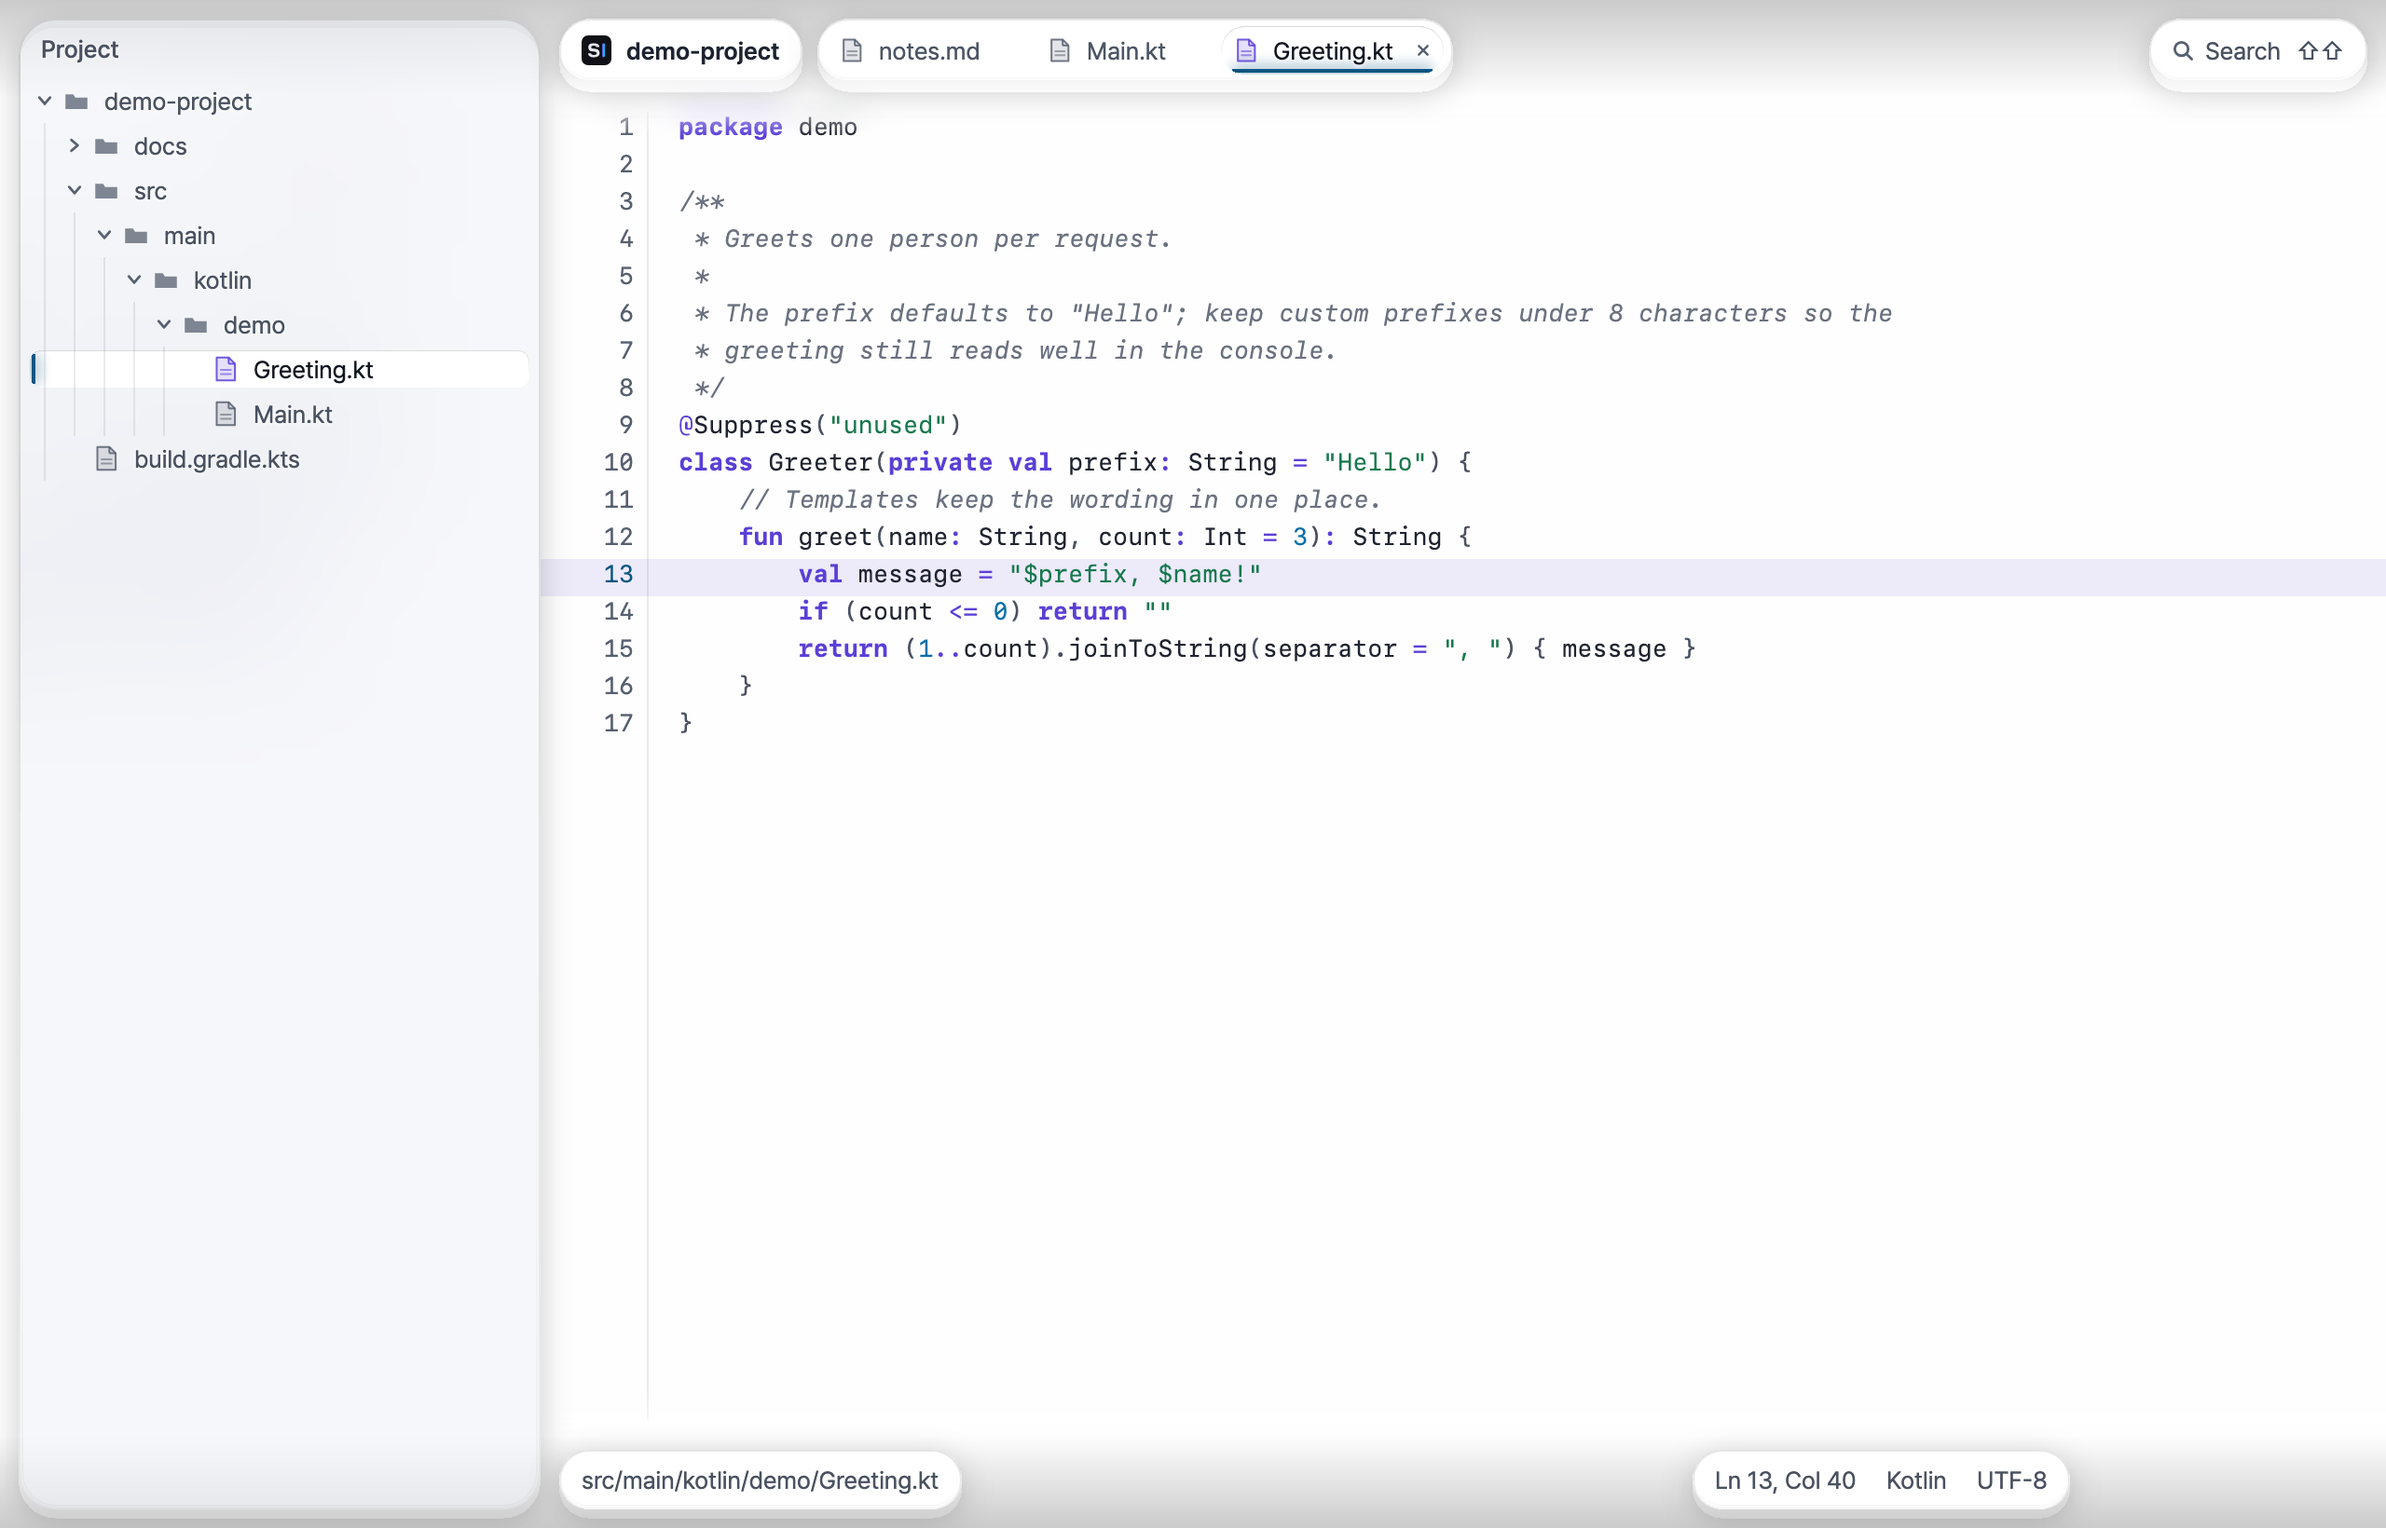
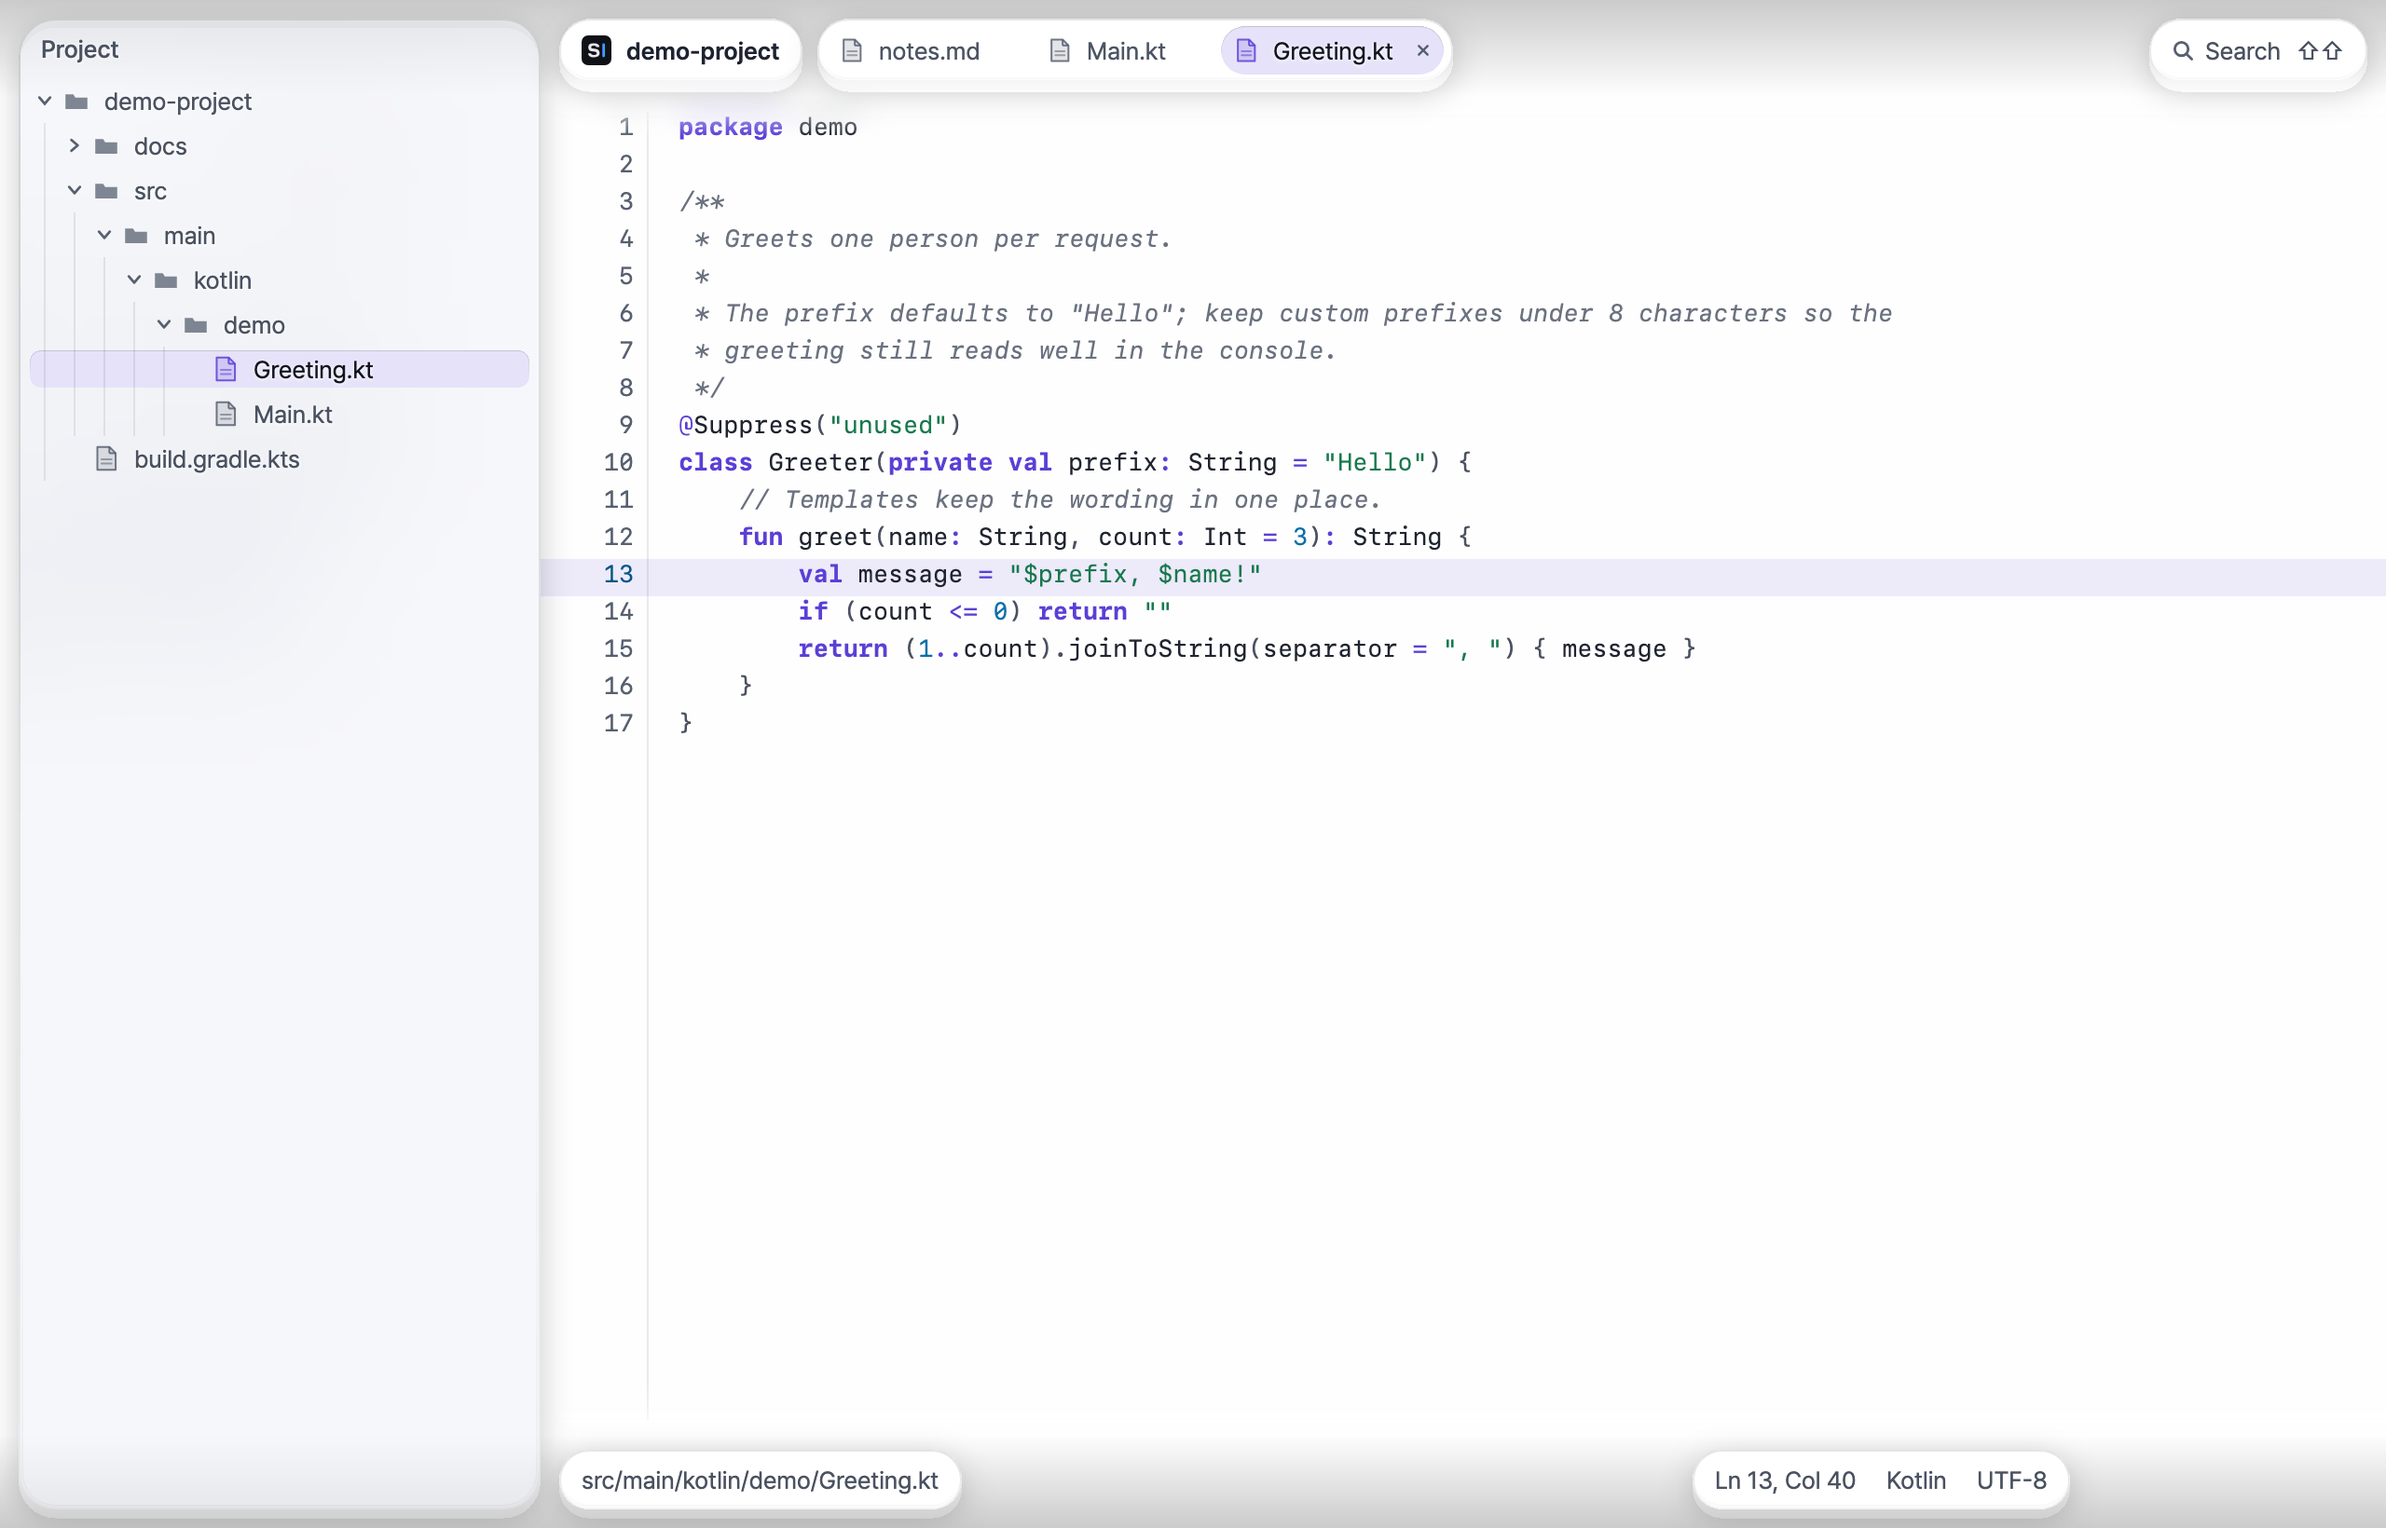
docs: #11 예시 그림 갱신
- ui-snapshots 의 새 렌더로 editor·editor-light·search·find·terminal·run·glass 그림 교체
- README.md·README.en.md 의 선택 밑줄·막대 문장을 단일 알약 신호로 수정

Changed region(s): [[0.0, 0.2177, 0.2188, 0.2799], [0.5, 0.0, 0.625, 0.0622]]

diff --git a/README.md b/README.md
@@ -133,12 +133,12 @@ brew install --cask lcalmsky/stride/stride
 - **배경** 네이티브 유리가 꺼진 경로에서는 중립 그라파이트 바탕에 위에서 아래로 은은히 어두워지는 휘도 폴오프를 깔아 창 뒤에 둡니다. 색은 강조 요소에만 씁니다
 - **대체 경로의 유리 범위** 대체 경로에서는 유리를 사이드바·상하단 캡슐·찾기 바·팝업·도구 창 전환기처럼 조작에 쓰는 층에만 쓰고, 에디터와 콘솔은 그 위에 뜬 불투명한 둥근 판입니다. 네이티브 경로에서는 에디터와 툴 창 본문도 유리입니다. 어느 경로든 바나 판이 창을 가로지르지 않습니다
 - **떠 있는 유리 사이드바** 위·왼·아래 10 dp 띄운 둥근 유리 판입니다. 대체 경로에서는 바로 옆의 실제 코드를 뒤집어 흐린 색장을 판 아래에 깔아 사이드바가 옆 코드의 색조를 머금고, 판 바깥은 에디터 필드와 같은 픽셀로 남습니다. 네이티브 경로에서는 판 자체가 데스크톱을 비춥니다
-- **바 대신 캡슐** 상단은 프로젝트 이름 캡슐·탭 캡슐 그룹·Search 캡슐로, 하단은 파일 경로 캡슐과 상태 캡슐 그룹으로 나뉩니다. 선택한 탭은 그룹 안의 유리 필이 미끄러지듯 옮겨 가고 시안 2 dp 밑줄이 선택을 즉시 알립니다. 상태 캡슐 그룹은 `Ln`·`Col`, 파일 종류, `UTF-8`, 읽기 전용 표시를 담습니다. 캡슐은 뒤를 흐려 라벨을 읽히게 하고, 캡슐 사이의 빈 곳은 그 아래(대체 경로에서는 코드)가 그대로 보이고 클릭됩니다
+- **바 대신 캡슐** 상단은 프로젝트 이름 캡슐·탭 캡슐 그룹·Search 캡슐로, 하단은 파일 경로 캡슐과 상태 캡슐 그룹으로 나뉩니다. 선택한 탭은 그룹 안의 유리 알약이 미끄러지듯 옮겨 가고, 그 알약 하나가 선택을 즉시 알립니다. 상태 캡슐 그룹은 `Ln`·`Col`, 파일 종류, `UTF-8`, 읽기 전용 표시를 담습니다. 캡슐은 뒤를 흐려 라벨을 읽히게 하고, 캡슐 사이의 빈 곳은 그 아래(대체 경로에서는 코드)가 그대로 보이고 클릭됩니다
 - **스크롤 엣지 효과** 스크롤한 코드는 상단·하단 캡슐 줄 아래에서 서서히 흐려지며 창 가장자리로 사라집니다. 바가 덮어 자르는 대신 흐림이 점진적으로 풀립니다
 - **얇은 팝업** 대체 경로에서는 Search Everywhere·최근 파일·컨텍스트 액션 팝업이 코드 위에 얇은 유리로 뜨고, 뒤의 코드를 비추며 가장자리에서 휘게 합니다. 굵은 텍스트 그림자가 라벨을 읽히게 하고, 셰이더를 쓸 수 없으면 블러와 헤어라인으로 대체합니다. 네이티브 경로에서는 팝업도 시스템 유리로 뜹니다
 - **팝업 그림자** 네이티브 경로의 팝업은 시스템이 그리는 부드러운 그림자로 유리 판이 데스크톱 위에 떠 보이고, 모달일 때 창을 덮는 어둡기는 훨씬 옅습니다
 - **웰컴 화면** 프로젝트가 없으면 워드마크가 화면의 콘텐츠가 되고, 그 아래 `Open Folder…` 유리 캡슐과 키캡 힌트가 놓입니다
-- **선택 신호** 선택한 트리 행은 작은 렌즈가 든 캡슐로 떠오르고, 시안 2 dp 막대, 번지는 글로우, 흰 텍스트로 표시합니다. 포커스를 받은 트리 패널은 테두리에 얇은 선을 그립니다
+- **선택 신호** 선택한 트리 행은 작은 렌즈가 든 캡슐로 떠오르고, 그 안의 알약 하나와 흰 텍스트로 표시합니다. 포커스를 받은 트리 패널은 테두리에 얇은 선을 그립니다
 - **큰 파일** 1,000줄 이상 문서는 상수 비용 스크롤 레이어로 그려 프레임 비용을 묶고, 그때 캡슐은 캐시한 프로스트 채움을 씁니다. 800줄 아래로 줄어야 레이어를 풉니다
 - **모션과 비용** 선택한 탭의 필은 200 ms 동안 미끄러지고 상시 애니메이션은 없습니다. 캡슐 프로스트와 팝업 렌즈는 저해상도 사본에서 계산하고, 배경 확장과 스크롤 엣지 흐림은 결과를 캐시해 정지 프레임에서 다시 계산하지 않습니다
 - **UI 글꼴** 번들된 UI 글꼴을 쓰고, Actions 탭의 `Switch UI Font` 로 시스템 글꼴과 전환합니다. 선택은 저장되어 다음 실행에도 유지됩니다

diff --git a/README.en.md b/README.en.md
@@ -133,12 +133,12 @@ The app installs to `/Applications/strIDE.app`. It is Apple Silicon (arm64) only
 - **Background** on the path without native glass, a neutral graphite base with a soft top-to-bottom luminance falloff sits behind the window content. Color is reserved for emphasis
 - **Glass on the fallback path** on the fallback path glass is used only for the sidebar, the top and bottom capsules, the find bar, popups, and the tool window switcher, and the editor and console are opaque rounded panels floating over it. On the native path the editor and the tool window body are glass too. On either path no bar or slab crosses the window
 - **Floating glass sidebar** a rounded glass panel inset 10 dp from the top, left, and bottom edges. On the fallback path the real code right next to it is mirrored and blurred into a soft colour field under the panel, so the sidebar carries the tone of the code beside it, and outside the panel the pixels are the editor field. On the native path the panel itself shows the desktop through
-- **Capsules instead of bars** the top row is split into a project name capsule, a tab capsule group, and a Search capsule; the bottom row into a file path capsule and a status capsule group. The selected tab is a glass pill that slides across the group, and a 2 dp cyan underline marks the selection instantly. The status group carries `Ln`·`Col`, the file type, `UTF-8`, and the read-only badge. Each capsule frosts what is behind it so labels stay legible, and the gaps between capsules stay visible and clickable
+- **Capsules instead of bars** the top row is split into a project name capsule, a tab capsule group, and a Search capsule; the bottom row into a file path capsule and a status capsule group. The selected tab is a glass pill that slides across the group, and that one pill marks the selection instantly. The status group carries `Ln`·`Col`, the file type, `UTF-8`, and the read-only badge. Each capsule frosts what is behind it so labels stay legible, and the gaps between capsules stay visible and clickable
 - **Scroll edge effect** scrolled code softens under the top and bottom capsule rows and fades out toward the window edge. Instead of a bar covering and cutting it, the blur eases out gradually
 - **Thin popups** on the fallback path, Search Everywhere, recent files, and the context actions popup float as thin glass over the code, showing it behind and bending it at the rim. A strong text shadow keeps labels legible, and they fall back to blur plus hairlines when the shader is unavailable. On the native path popups use the system glass too
 - **Popup shadow** on the native path each popup casts a soft system drop shadow that lifts it off the desktop, and the modal dimming over the window is much lighter
 - **Welcome screen** without a project, the wordmark is the content, with an `Open Folder…` glass capsule and keycap hints below it
-- **Selection signal** a selected tree row floats as a capsule with a small lens and shows a 2 dp cyan bar, a bleeding glow, and white text. A focused tree panel draws a thin line around its border
+- **Selection signal** a selected tree row floats as a capsule with a small lens and shows one pill and white text. A focused tree panel draws a thin line around its border
 - **Large files** documents of 1,000 lines or more scroll through a constant-cost layer, and the capsules use a cached frost fill; the layer is released once the document shrinks below 800 lines
 - **Motion and cost** the selected tab's pill slides for 200 ms and nothing animates continuously. Capsule frost and the popup lens are computed on lower-resolution copies, and the background extension and scroll edge blur are cached so static frames do not compute them again
 - **UI font** the bundled UI font can be swapped for the system font with `Switch UI Font` in the Actions tab. The choice is saved for the next launch
